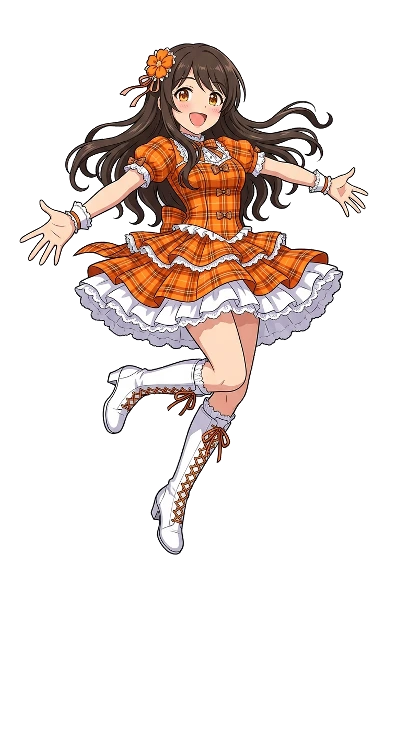
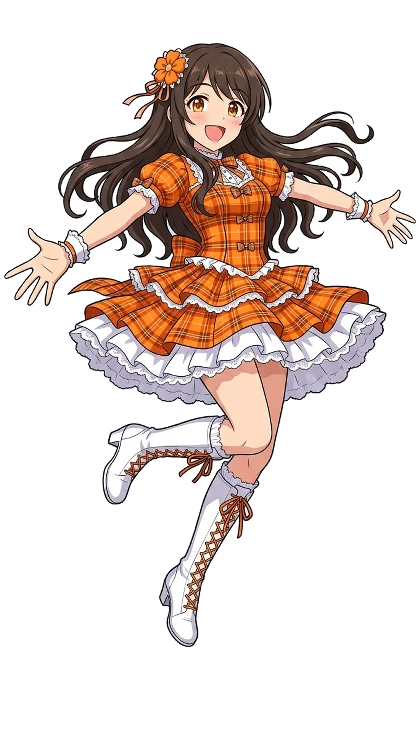
みがき第16弾: 愛良のジャンプの大きさ

Changed region(s): [[0.0, 0.0305, 0.9905, 0.8858]]

diff --git a/sw.js b/sw.js
@@ -1,4 +1,4 @@
-const CACHE = 'reidol-1336603d6e';
+const CACHE = 'reidol-85f09d1d90';
 const FILES = ["./", "index.html", "manifest.webmanifest", "STORY_wave2.md", "difficulty.js", "assets/aira_face.jpg", "assets/aira_full.webp", "assets/arisu_face.jpg", "assets/arisu_full.webp", "assets/bg_1.jpg", "assets/bg_1w.jpg", "assets/bg_2.jpg", "assets/bg_2w.jpg", "assets/bg_3.jpg", "assets/bg_3w.jpg", "assets/bg_4.jpg", "assets/bg_4w.jpg", "assets/bg_5.jpg", "assets/bg_5w.jpg", "assets/bg_6.jpg", "assets/bg_6w.jpg", "assets/bg_result.jpg", "assets/fuka_face.jpg", "assets/fuka_full.webp", "assets/key_opening.jpg", "assets/nana_face.jpg", "assets/nana_full.webp", "assets/neiro_face.jpg", "assets/neiro_full.webp", "assets/ruri_face.jpg", "assets/ruri_full.webp", "assets/saaya_face.jpg", "assets/saaya_full.webp", "assets/story_0.jpg", "assets/story_1.jpg", "assets/story_2.jpg", "assets/story_3.jpg", "assets/story_4.jpg", "assets/story_5.jpg", "assets/story_6.jpg", "icons/icon_180.png", "icons/icon_192.png", "icons/icon_512.png", "charts/chokkan-aisho-chekira.json", "charts/hometive.json", "charts/index.json", "charts/miracle-express.json", "charts/overture-01.json", "charts/peaceful-cabinet.json", "charts/re-start.json", "charts/saikyo-louder.json", "charts/super-energy.json", "se/buy_coin.wav", "se/clap.wav", "se/combo_milestone.wav", "se/count_tick.wav", "se/fuffu.wav", "se/hai.wav", "se/haihai.wav", "se/kira.wav", "se/level_up.wav", "se/live_heal.wav", "se/mg_correct.wav", "se/mg_countdown.wav", "se/mg_premium.wav", "se/mg_timeup.wav", "se/mg_wrong.wav", "se/miss_thud.wav", "se/oi.wav", "se/perfect.wav", "se/rank_stamp.wav", "se/se_balloon_pop.wav", "se/se_bbq_sizzle.wav", "se/se_crowd_cheer.wav", "se/se_drive_over.wav", "se/se_puff_found.wav", "se/se_register.wav", "se/tap.wav", "se/tap_hi.wav", "se/ui_back.wav", "se/ui_tap.wav", "se/unlock.wav", "minigames/abekobe.js", "minigames/balloon.js", "minigames/bbq.js", "minigames/creampuff.js", "minigames/drive.js", "minigames/premium_words.json", "minigames/shiritori.js", "minigames/words_ja.json"];
 self.addEventListener('install', e => { e.waitUntil(caches.open(CACHE).then(c => c.addAll(FILES.map(f => new Request(f, {cache:'reload'}))))); });
 self.addEventListener('message', e => { if (e.data && e.data.type === 'SKIP_WAITING') self.skipWaiting(); });

diff --git a/index.html b/index.html
@@ -17,7 +17,7 @@ body { margin: 0; font: 14px system-ui, sans-serif; }
 img { max-width: 100%; }
 [hidden] { display: none !important; }
 </style>
-<script>window.APP_VERSION = "1336603d6e";</script>
+<script>window.APP_VERSION = "85f09d1d90";</script>
 </head>
 <body>
 <meta name="viewport" content="width=device-width,initial-scale=1,viewport-fit=cover">
